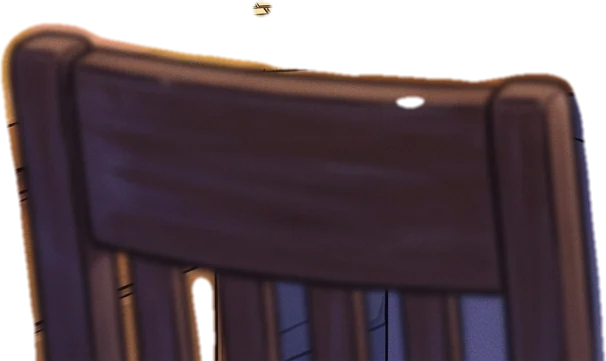
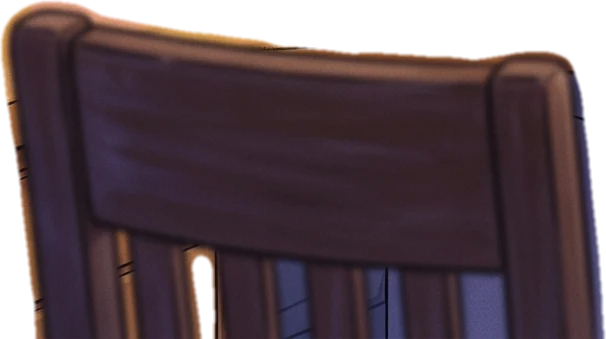
Room: a clean chair (no stray bit of keyboard riding the parallax, no hole in the backrest), the shelf's + over the binders

diff --git a/src/components/room/PaintedRoom.tsx b/src/components/room/PaintedRoom.tsx
@@ -375,9 +375,6 @@ export function PaintedRoom({ openId, compact, paused, onOpen, onOpenComputer, o
               <span className={styles.addSketch}>
                 <ShelfBinder slot={plusSlot} sketch />
               </span>
-              <span className={styles.addPlus} style={besideBinder ? { left: "75%" } : undefined}>
-                +
-              </span>
             </button>
           )}
 
@@ -438,6 +435,15 @@ export function PaintedRoom({ openId, compact, paused, onOpen, onOpenComputer, o
               </button>
             );
           })}
+
+          {/* the "+" over the sketch, drawn after the binders: the side cover of the one on its left can't hide it */}
+          {plusSlot && (
+            <span key={`plus-mark-${binders.length}`} className={styles.addMark} style={place(plusSlot)} aria-hidden>
+              <span className={styles.addPlus} style={besideBinder ? { left: "75%" } : undefined}>
+                +
+              </span>
+            </span>
+          )}
 
           {/* the lamp head passes in front of the lower binders */}
           <img className={styles.sprite} src={sceneImg("lamp-head.webp")} style={place(SCENE.lamp)} alt="" draggable={false} />

diff --git a/src/components/room/PaintedRoom.module.css b/src/components/room/PaintedRoom.module.css
@@ -296,8 +296,15 @@
 
 /* ---------- empty place: pencil sketch of a binder + a "+" ---------- */
 
-.addSlot {
+.addSlot,
+.addMark {
   animation: sketchIn 0.4s steps(4);
+}
+
+/* the "+" sits over the binders (a sibling after them); the slot's hover still drives it */
+.addMark {
+  position: absolute;
+  pointer-events: none;
 }
 
 .addSketch {
@@ -329,7 +336,8 @@
   opacity: 0.95;
 }
 
-.addSlot:hover .addPlus {
+.addSlot:hover ~ .addMark .addPlus,
+.addSlot:focus-visible ~ .addMark .addPlus {
   animation-duration: 0.5s;
 }
 
